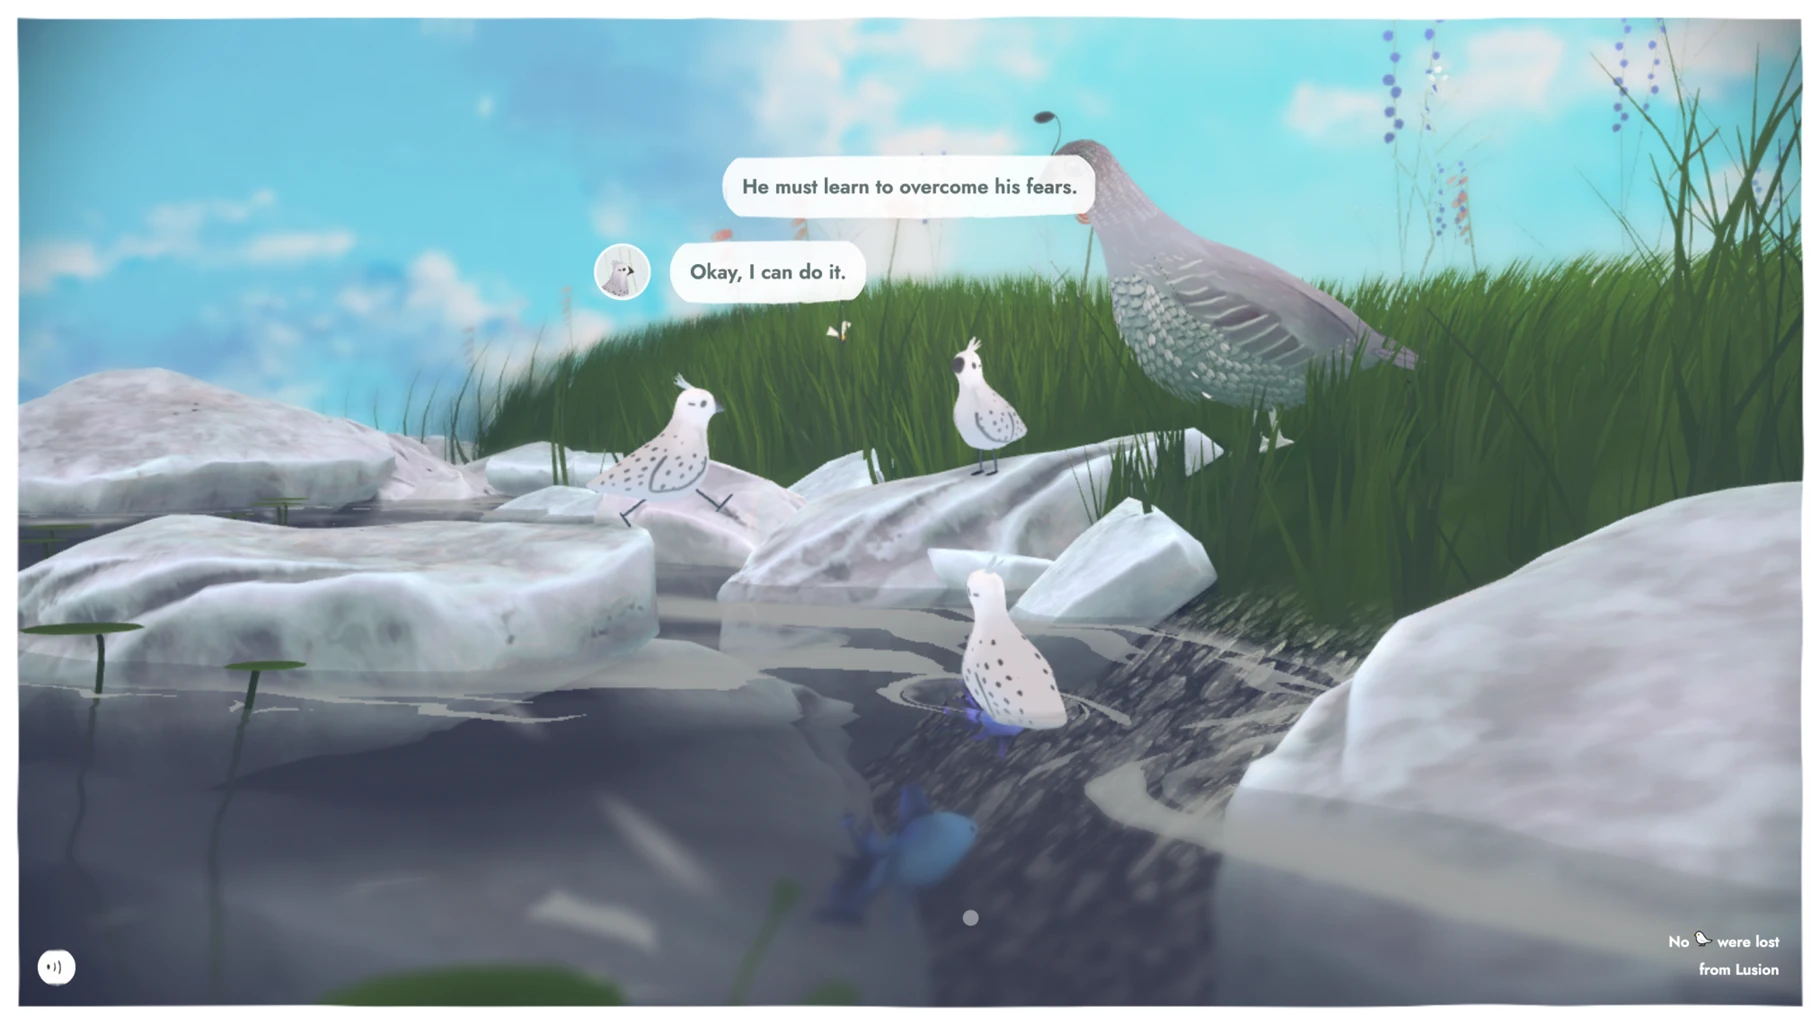
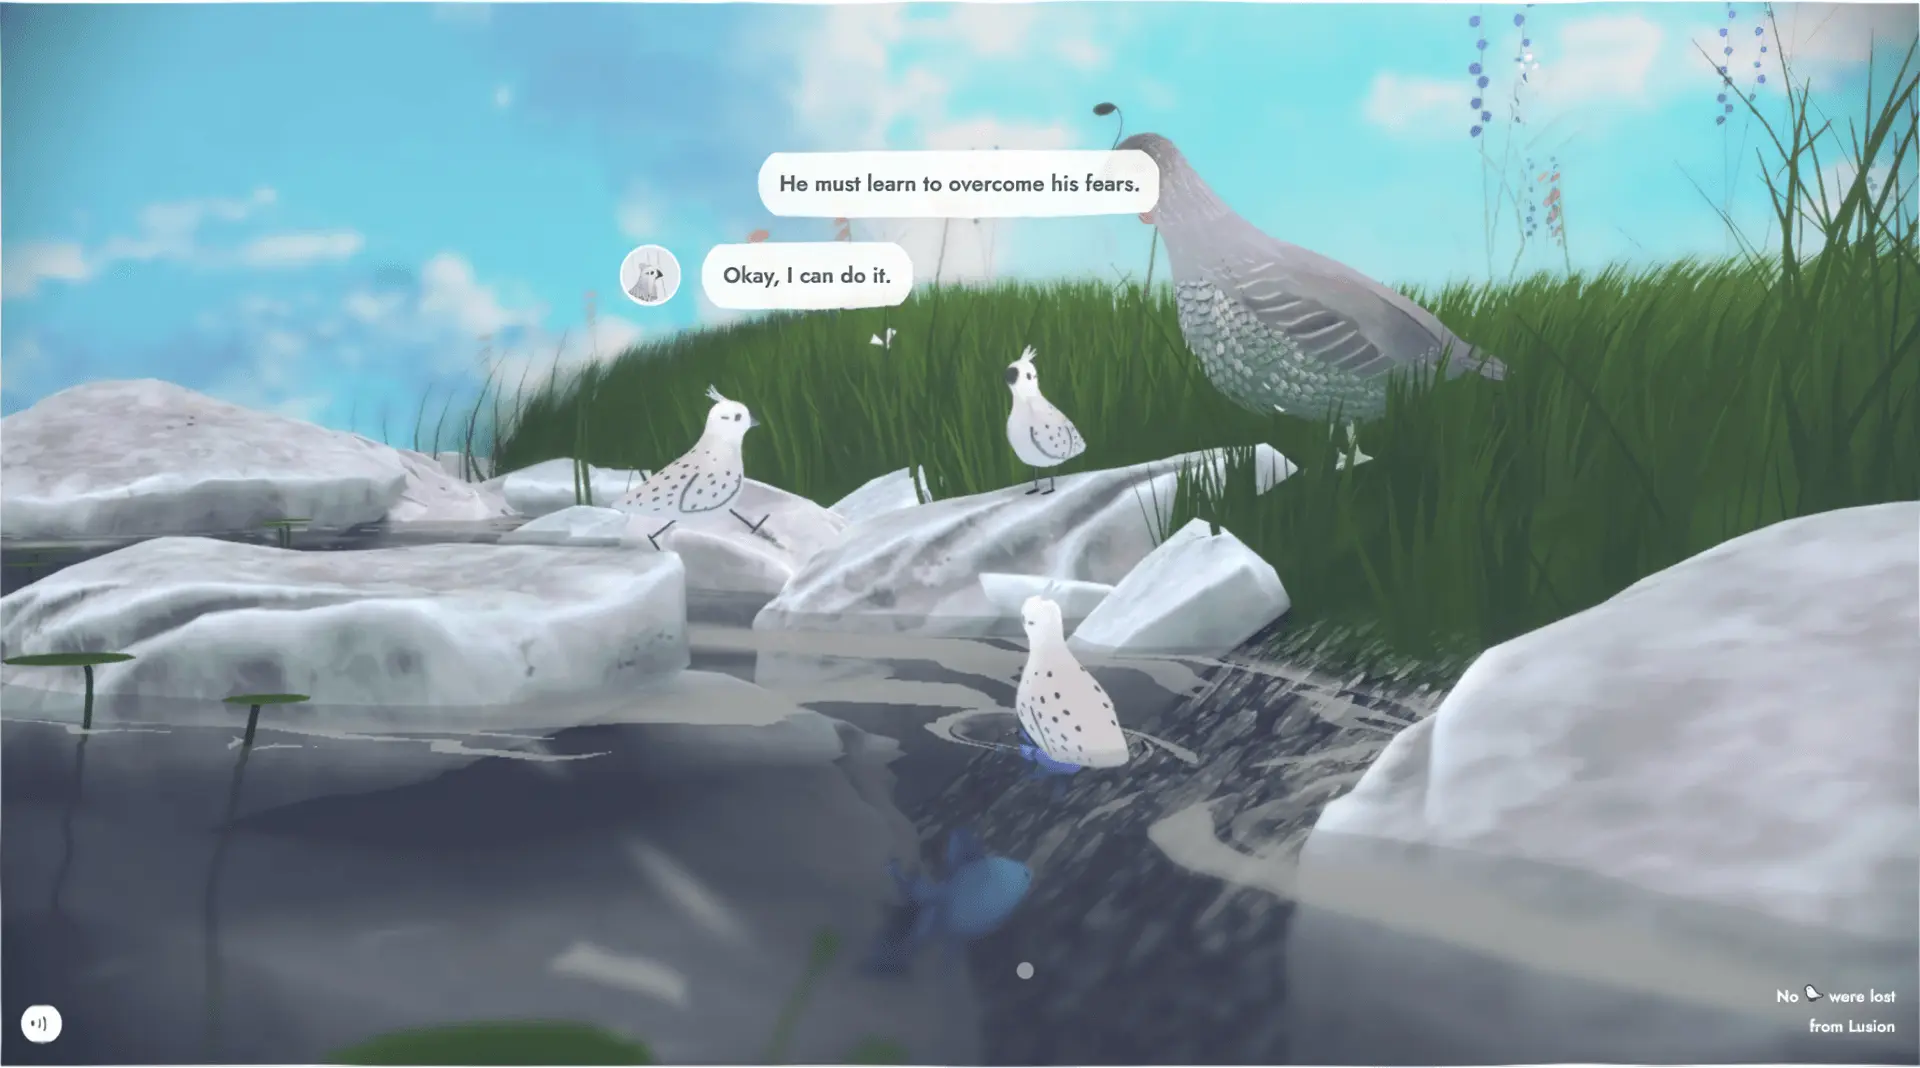
Assets: png LOW and HIGH, webp

diff --git a/src/app/data/projects.js b/src/app/data/projects.js
@@ -1,31 +1,20 @@
-import testImage from '../../../public/assets/images/test.png';
-import dinosaurImage from '../../../public/assets/images/dinosaur.png';
-import plantsImage from '../../../public/assets/images/plants.png';
-import unchainedMelodyImage from '../../../public/assets/images/unchaInedMelody.png';
-
 import myLittleStorybookImage1 from '../../../public/assets/images/my_little_storybook/image10.webp';
 import myLittleStorybookImage2 from '../../../public/assets/images/my_little_storybook/image9.webp';
 import myLittleStorybookImage3 from '../../../public/assets/images/my_little_storybook/image11.webp';
 
-import chooChooWorldImage1 from '../../../public/assets/images/choo_choo/choochoo1.png';
-import chooChooWorldImage2 from '../../../public/assets/images/choo_choo/choochoo3.png';
-import chooChooWorldImage3 from '../../../public/assets/images/choo_choo/clay.png';
+import chooChooWorldImage1 from '../../../public/assets/images/choo_choo/LOW/choochoo1.png';
+import chooChooWorldImage2 from '../../../public/assets/images/choo_choo/choochoo3.webp';
+import chooChooWorldImage3 from '../../../public/assets/images/choo_choo/clay.webp';
 
-import feuxDeForestImage1 from '../../../public/assets/images/feux_de_forest/screencapture-fireforest.png';
+import feuxDeForestImage1 from '../../../public/assets/images/feux_de_forest/screencapture-fireforest.webp';
 
-import djeliImage1 from '../../../public/assets/images/djeli/image1.png';
-import djeliImage2 from '../../../public/assets/images/djeli/image2.png';
-import djeliImage3 from '../../../public/assets/images/djeli/image3.png';
+import djeliImage1 from '../../../public/assets/images/djeli/image1.webp';
+import djeliImage2 from '../../../public/assets/images/djeli/image2.webp';
+import djeliImage3 from '../../../public/assets/images/djeli/image3.webp';
 
-import originesImage1 from '../../../public/assets/images/origines/origines1.png';
-import originesImage2 from '../../../public/assets/images/origines/origines2.png';
-import originesImage3 from '../../../public/assets/images/origines/origines3.png';
-import originesImage4 from '../../../public/assets/images/origines/origines4.png';
-import originesImage5 from '../../../public/assets/images/origines/origines5.png';
-import originesImage6 from '../../../public/assets/images/origines/origines6.png';
-import originesImage7 from '../../../public/assets/images/origines/origines7.png';
-import originesImage8 from '../../../public/assets/images/origines/origines8.png';
-import originesImage9 from '../../../public/assets/images/origines/origines9.png';
+import originesImage1 from '../../../public/assets/images/origines/LOW/origines6.png';
+import originesImage2 from '../../../public/assets/images/origines/origines2.webp';
+import originesImage3 from '../../../public/assets/images/origines/origines3.webp';
 
 const data = [
 	// {
